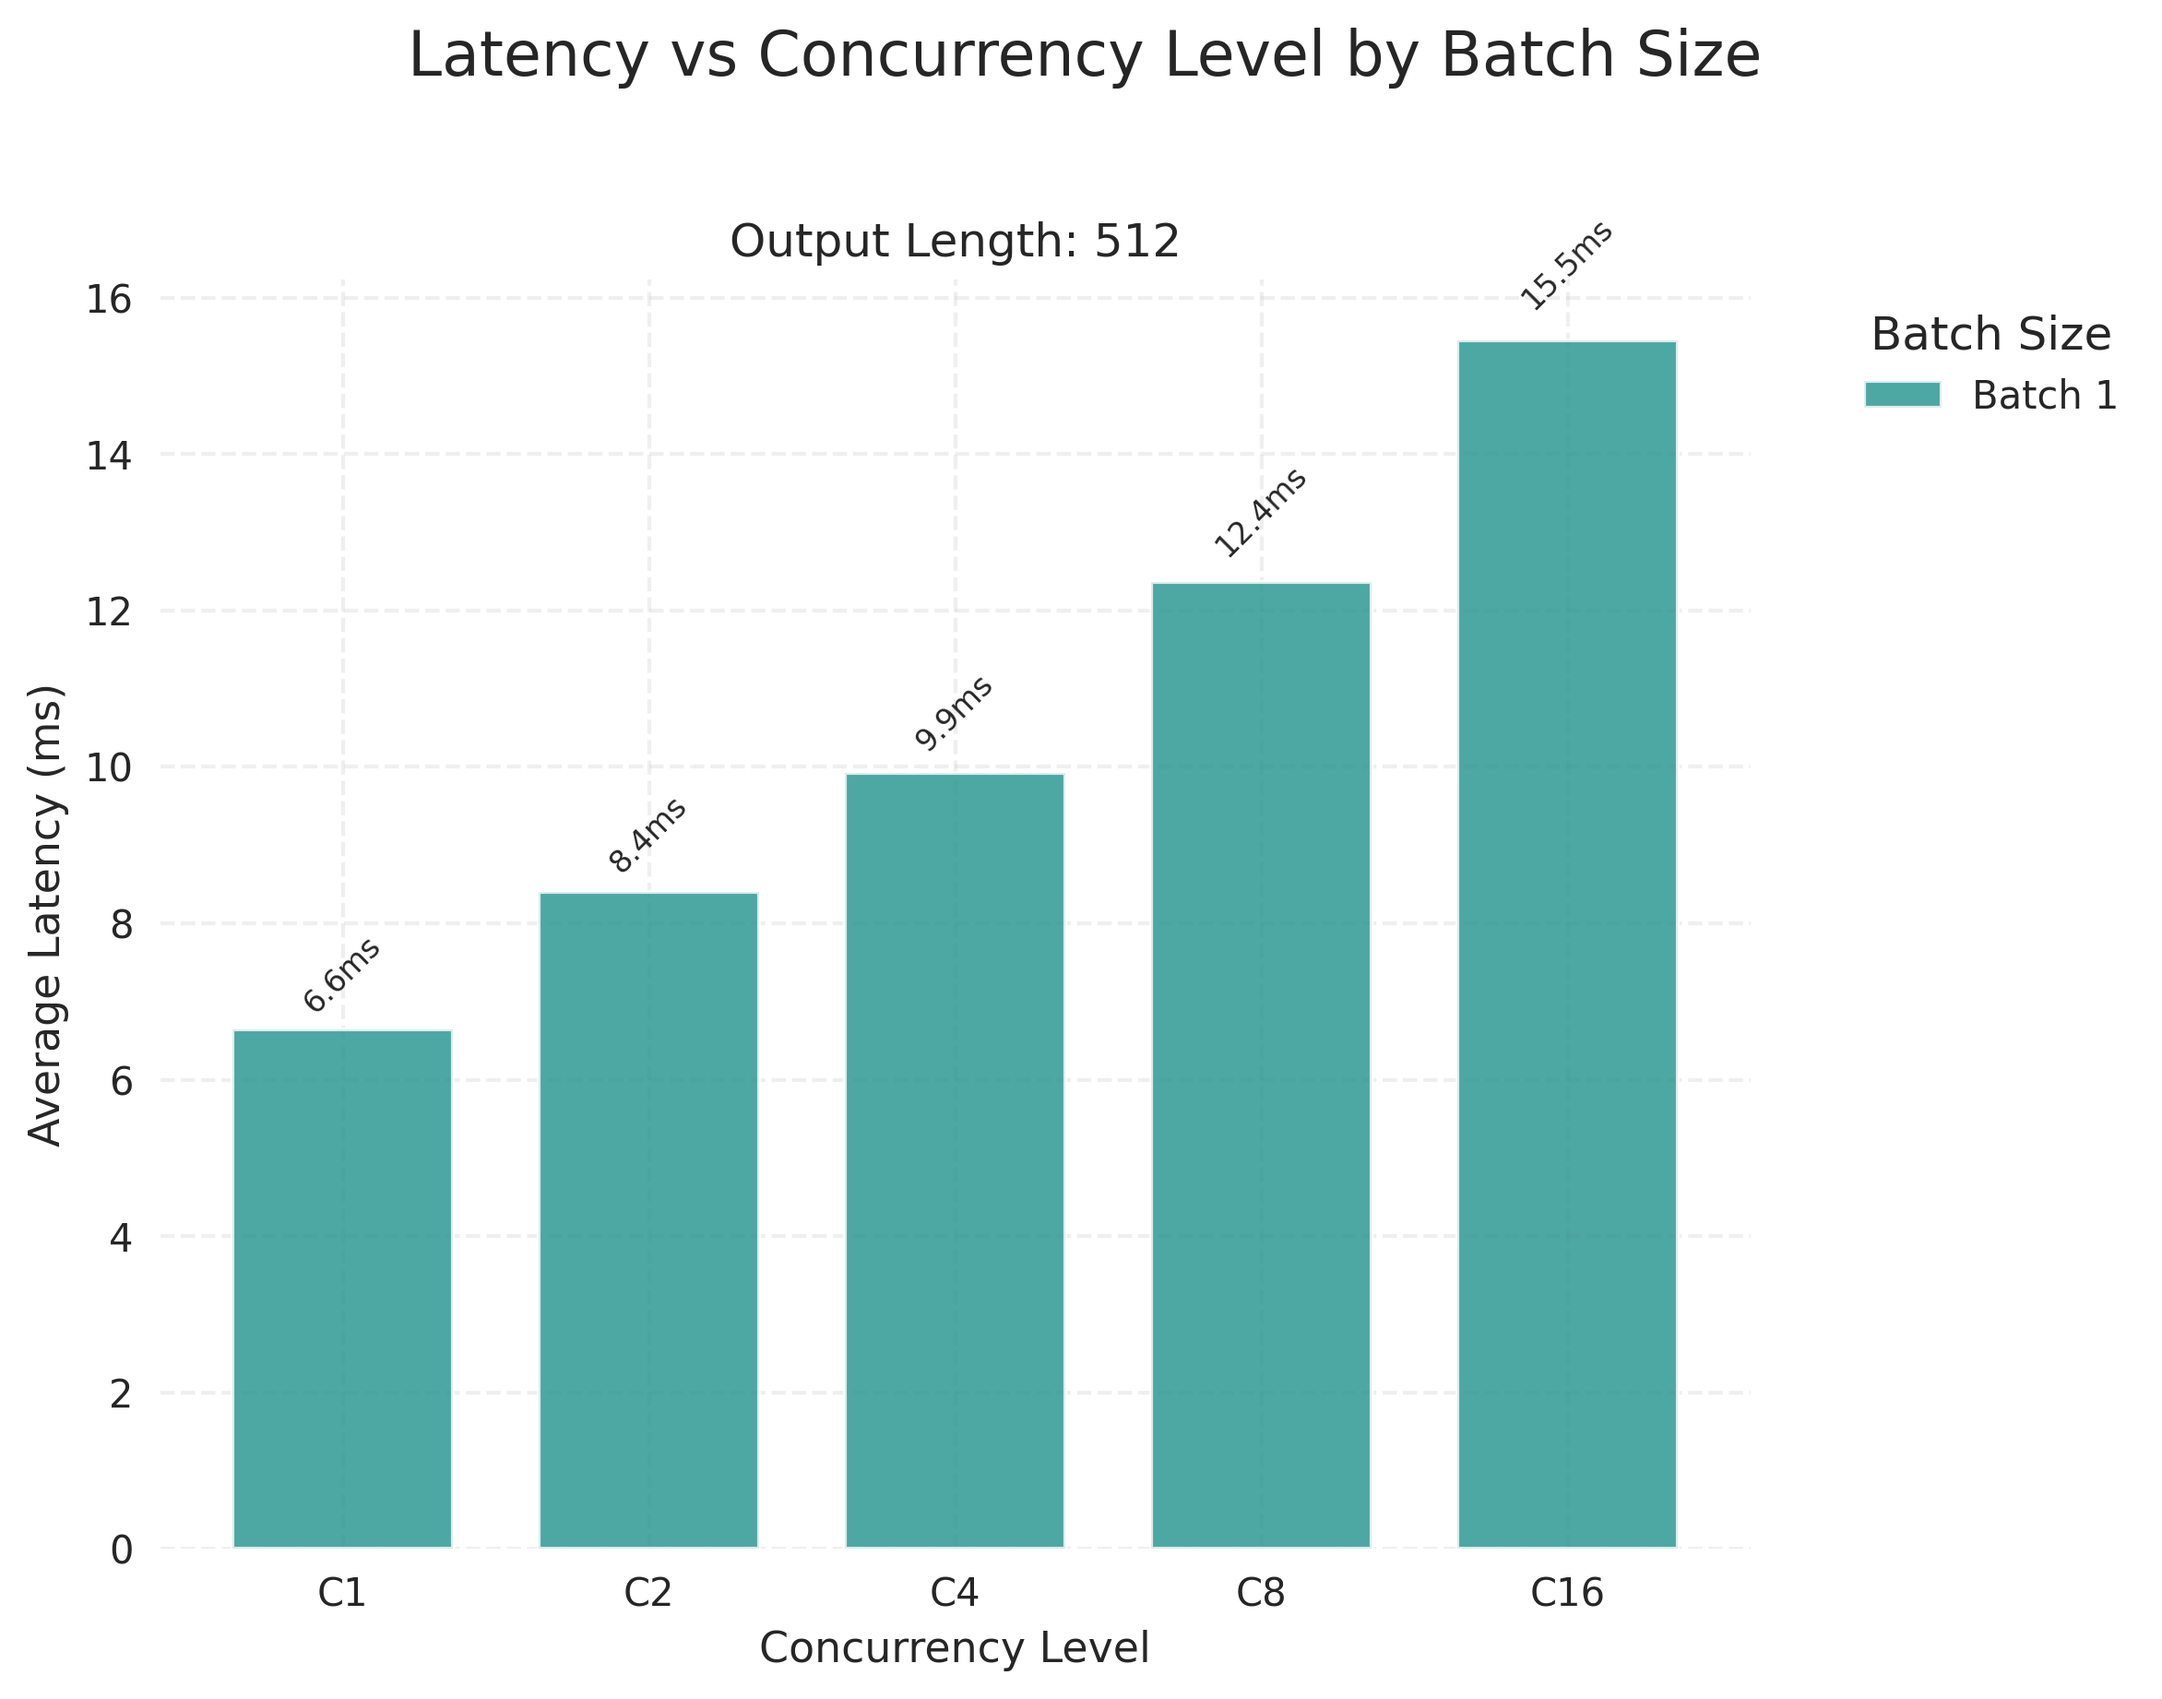
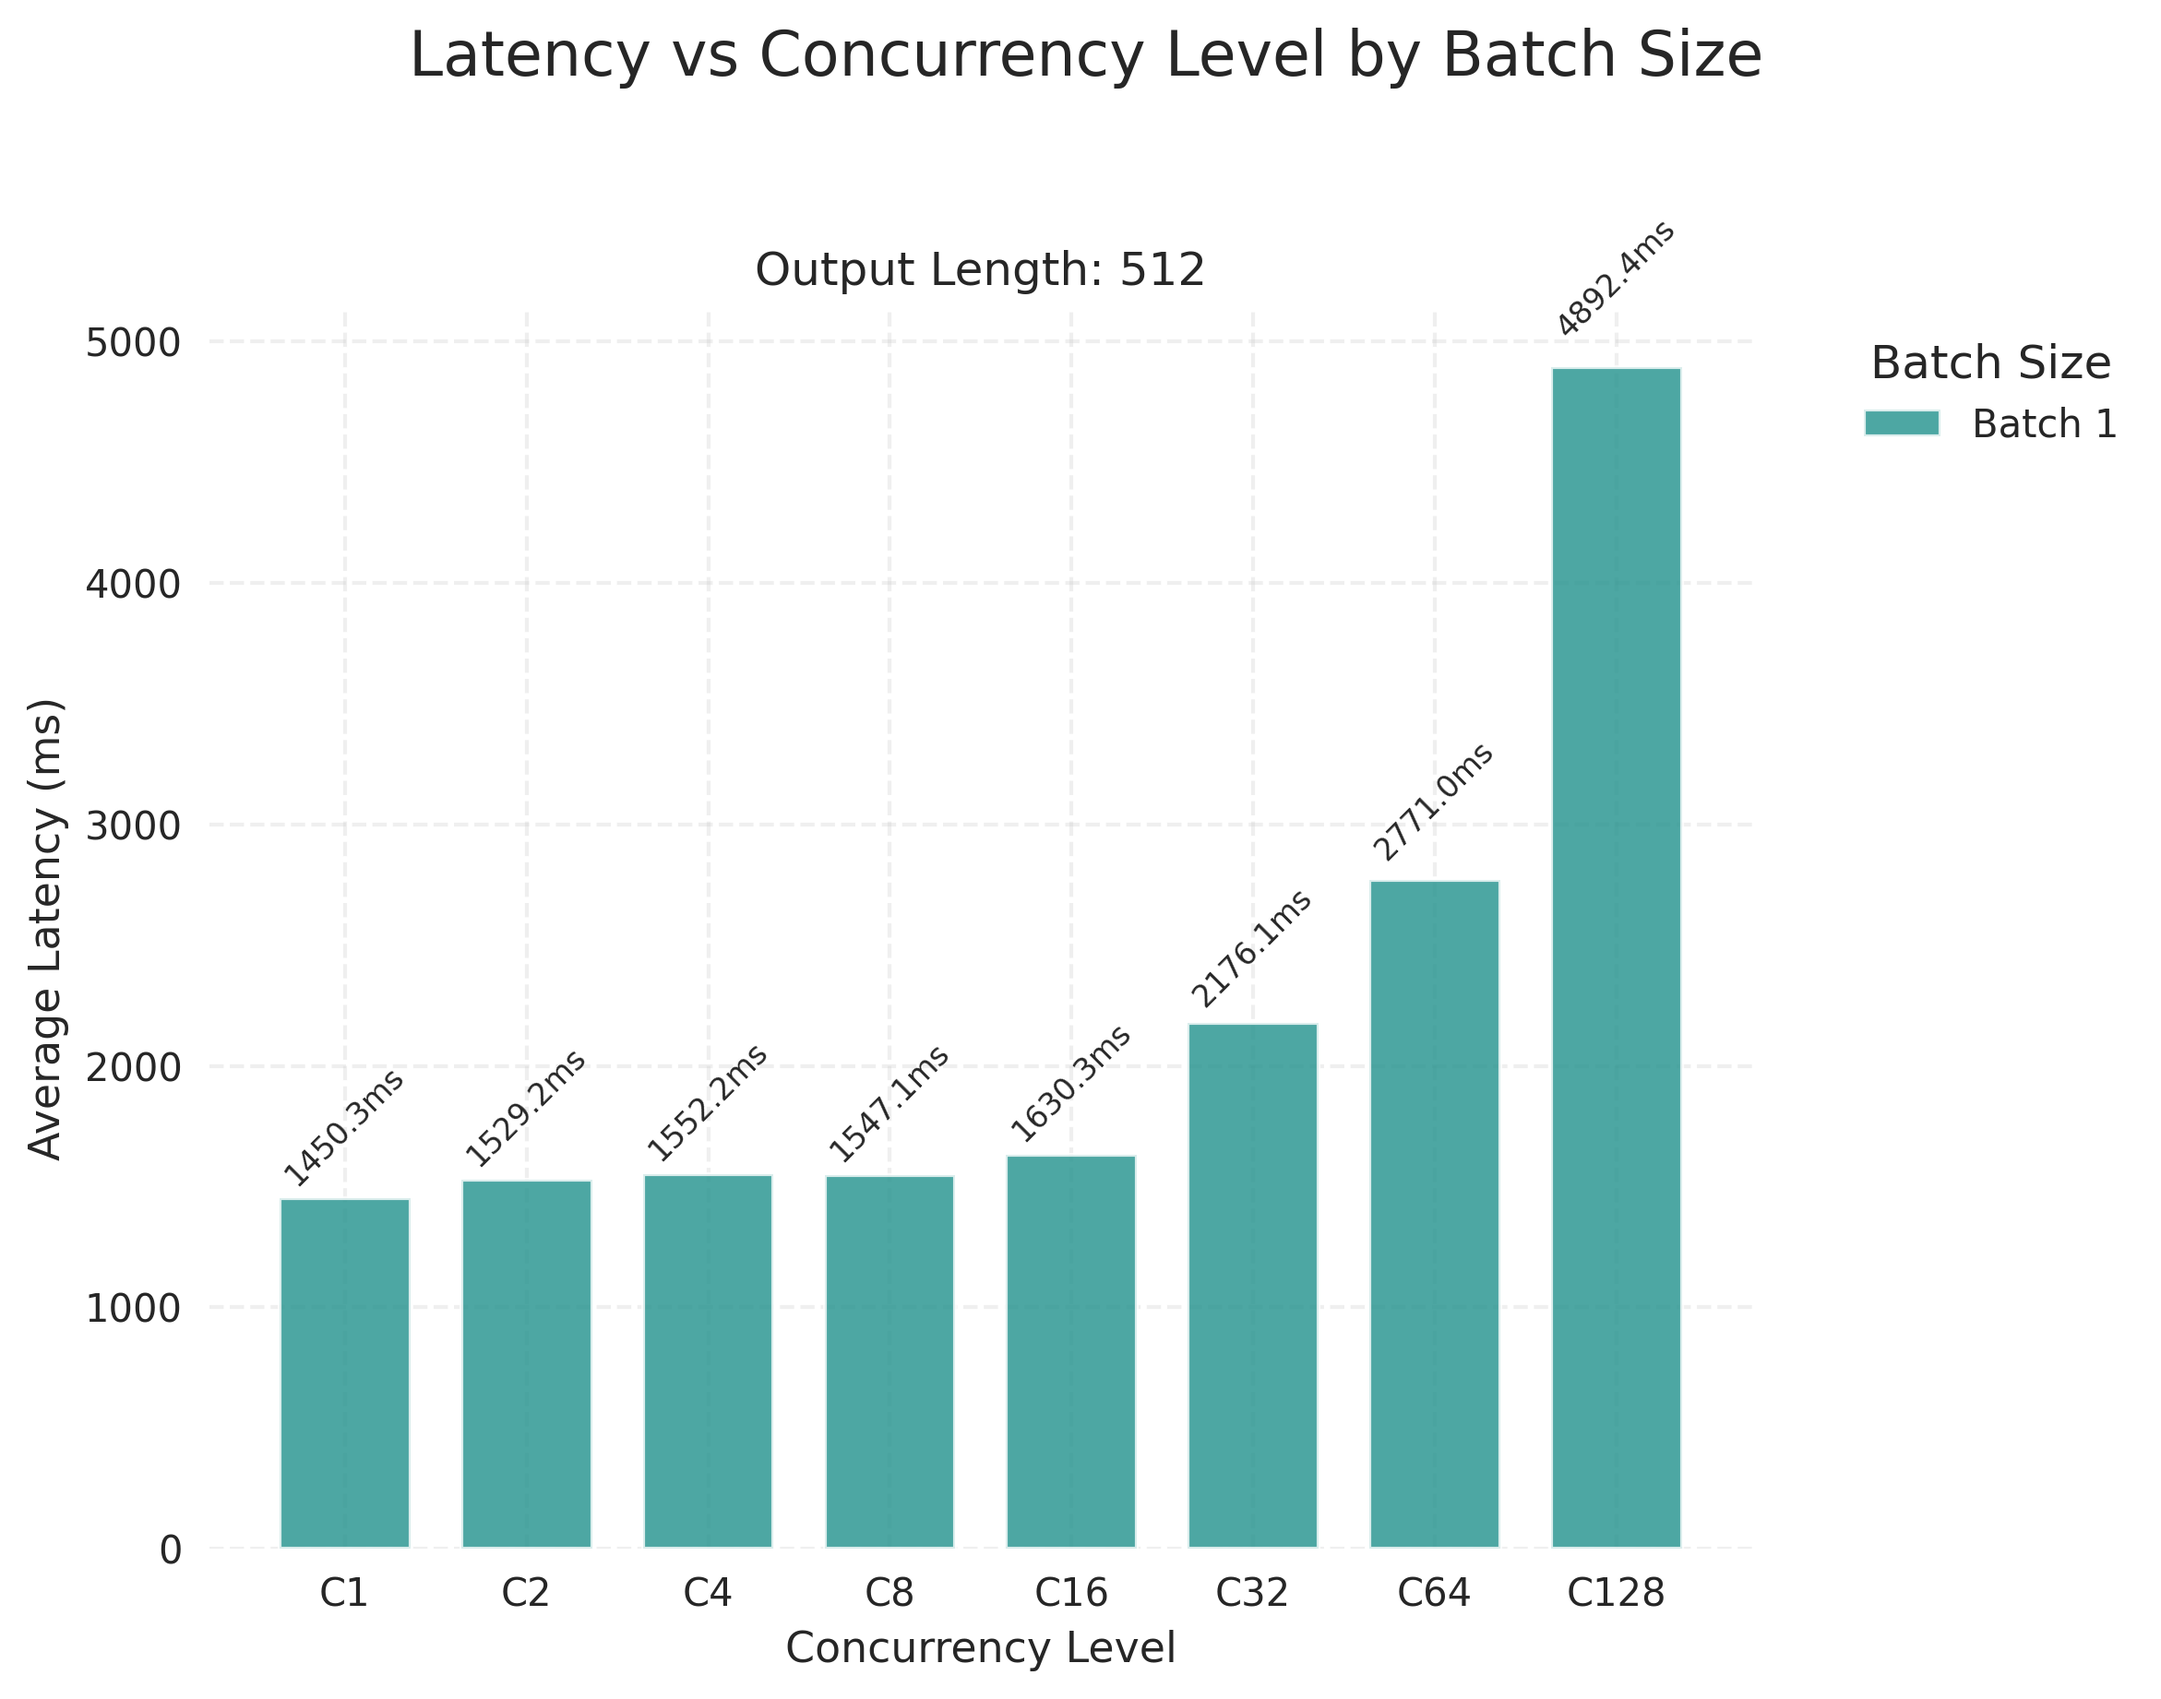
Online Server working with dynamic batching

diff --git a/tinyllama/server/vllm_dynamic.py b/tinyllama/server/vllm_dynamic.py
@@ -6,7 +6,8 @@ from vllm import LLM, SamplingParams, AsyncLLMEngine
 import uvicorn
 import os
 from vllm.engine.arg_utils import AsyncEngineArgs
-
+from vllm.usage.usage_lib import UsageContext
+import asyncio
 
 app = FastAPI()
 
@@ -33,7 +34,7 @@ class vLLMServerDynamicBatching:
             "max_num_seqs": 128,
         }
         engine_args = AsyncEngineArgs(**llm_params)
-        self.llm = AsyncLLMEngine.from_engine_args(engine_args)
+        self.llm = AsyncLLMEngine.from_engine_args(engine_args, usage_context=UsageContext.API_SERVER)
         print("vLLM model loaded")
 
 vllm_server = vLLMServerDynamicBatching()
@@ -52,21 +53,29 @@ async def generate(request: GenerationRequest):
     )
 
     try:
-        assert len(request.prompts) == 1, "Only one prompt is supported"
-
         outputs_generator = vllm_server.llm.generate(
             request.prompts[0],
             sampling_params,
             request_id=request.request_id
         )
         
-        output = await outputs_generator.__anext__()
-        
+        final_output = None
+        try:
+            async for request_output in outputs_generator:
+                final_output = request_output
+        except asyncio.CancelledError:
+            return Response(status_code=499)
+
+        assert final_output is not None
+        results = []
+        for output in final_output.outputs:
+            results.append({
+                "text": output.text,
+                "tokens": len(output.token_ids)
+            })
+
         return {
-            "results": [{
-                "text": output.outputs[0].text,
-                "tokens": len(output.outputs[0].token_ids)
-            }]
+            "results": results
         }
     except Exception as e:
         raise HTTPException(status_code=500, detail=str(e))

diff --git a/tinyllama/offline_serving/profile_vllm.py b/tinyllama/offline_serving/profile_vllm.py
@@ -15,7 +15,7 @@ import matplotlib.pyplot as plt
 from datetime import datetime
 from vllm import LLM, SamplingParams
 from tinyllama.utils.llm_prompt import PROMPT
-from tinyllama.utils.profile import ModelProfiler
+from tinyllama.offline_serving.profile import ModelProfiler
 import torch
 
 
@@ -123,13 +123,13 @@ class vLLMProfiler(ModelProfiler):
         for _ in range(num_runs):
             start_time = time.time()
             outputs = self.llm.generate(prompts, sampling_params)
-            duration = time.time() - start_time
+            latency = time.time() - start_time
             
             # Calculate metrics
             num_output_tokens = sum(len(output.outputs[0].token_ids) for output in outputs)
-            avg_tokens_per_second = num_output_tokens / duration
+            avg_tokens_per_second = num_output_tokens / latency
             
-            latencies.append(duration)
+            latencies.append(latency)
             tokens_per_second.append(avg_tokens_per_second)
         
         stats = {
@@ -159,13 +159,13 @@ def main():
             
     # Save results
     timestamp = datetime.now().strftime("%Y%m%d_%H%M%S")
-    output_dir = "profiling_results/vllm"
+    output_dir = os.path.join(os.path.dirname(__file__), "profiling_results", "vllm")
     os.makedirs(output_dir, exist_ok=True)
     
     csv_path = f"{output_dir}/results_{timestamp}.csv"
     results.to_csv(csv_path, index=False)
     print(f"\nProfiling results saved to: {csv_path}")
-    
+
     
     print("\nProfiling Summary:")
     print(results[['batch_size', 'max_new_tokens', 

diff --git a/tinyllama/server/profile_vllm_server.py b/tinyllama/server/profile_vllm_server.py
@@ -16,19 +16,17 @@ CONFIG = {
     "host": "localhost",
     "port": 8000,
     "output_file": "vllm_concurrent_profile.csv",
-    "batch_sizes": [1],
+    "batch_sizes": [1, 2, 4, 8],
     "max_tokens_list": [512],
-    "concurrency_levels": [1, 2, 4, 8, 16],
-    "requests_per_level": 20,
+    "concurrency_levels": [1, 2, 4, 8],
+    "requests_per_level": 512,
     "input_length": 128
 }
 
 class vLLMClient:
     def __init__(self, base_url: str = "http://localhost:8000"):
         self.base_url = base_url.rstrip("/")
-        self.session = aiohttp.ClientSession(
-            connector=aiohttp.TCPConnector(limit=128)
-        )
+        self.session = aiohttp.ClientSession()
         
     async def __aenter__(self):
         return self
@@ -91,6 +89,9 @@ async def make_request(
         request_id=request_id
     )
     # print(f"Received request: {request_id}")
+    # print("Prompt: ", prompt)
+    # print("Response: ", response["results"][0]["text"])
+    # print(response["results"][0]["tokens"])
     total_tokens = sum(r["tokens"] for r in response["results"])
     return latency, total_tokens
 
@@ -133,7 +134,7 @@ async def profile_concurrent_requests(
         "std_latency_ms": np.std(latencies),
         "p90_latency_ms": np.percentile(latencies, 90),
         "p99_latency_ms": np.percentile(latencies, 99),
-        "throughput_tps": num_requests * np.sum(num_tokens) / total_time,
+        "throughput_tps": np.sum(num_tokens) / total_time,
     }
 
 async def run_profiling(

diff --git a/tinyllama/offline_serving/profile_baseline.py b/tinyllama/offline_serving/profile_baseline.py
@@ -18,7 +18,7 @@ import pandas as pd
 import gc
 from datetime import datetime
 from tinyllama.utils.llm_prompt import PROMPT
-from tinyllama.utils.profile import ModelProfiler
+from tinyllama.offline_serving.profile import ModelProfiler
 
 # Configuration
 MODEL_NAME = "TinyLlama/TinyLlama-1.1B-Chat-v1.0"
@@ -153,15 +153,13 @@ def main():
     
     # Save results
     timestamp = datetime.now().strftime("%Y%m%d_%H%M%S")
-    output_dir = "profiling_results/baseline"
+    output_dir = os.path.join(os.path.dirname(__file__), "profiling_results", "baseline")
     os.makedirs(output_dir, exist_ok=True)
     
     csv_path = f"{output_dir}/results_{timestamp}.csv"
     results.to_csv(csv_path, index=False)
     print(f"\nProfiling results saved to: {csv_path}")
     
-    profiler.plot_results(results, output_dir)
-    print("Generated plots in the profiling_results/baseline directory.")
     
     print("\nProfiling Summary:")
     print(results[['batch_size', 'max_new_tokens', 

diff --git a/tinyllama/utils/plot_concurrency.py b/tinyllama/utils/plot_concurrency.py
@@ -266,11 +266,10 @@ if __name__ == "__main__":
     import argparse
     
     parser = argparse.ArgumentParser(description='Generate concurrency analysis plots from vLLM profile data')
-    parser.add_argument('--input', type=str, default='vllm_concurrent_profile.csv',
+    parser.add_argument('--csv_path', type=str, default='vllm_concurrent_profile.csv',
                        help='Path to the input CSV file')
-    parser.add_argument('--output', type=str, default=None,
-                       help='Output directory for plots (default: <input_dir>/concurrency_plots)')
-    
     args = parser.parse_args()
+
+    output_dir = os.path.join(os.path.dirname(__file__), 'concurrency_plots')
     
-    main(args.input, args.output)
+    main(args.csv_path, output_dir)

diff --git a/README.md b/README.md
@@ -18,8 +18,8 @@ This project focuses on optimizing the inference performance of the TinyLlama mo
 
 2. **Create and activate a virtual environment** (optional but recommended)
    ```bash
-   python -m venv venv
-   source venv/bin/activate 
+   uv venv tinyllama_env
+   source tinyllama_env/bin/activate 
    ```
 
 3. **Install the package in development mode**
@@ -53,26 +53,19 @@ tinyllama-optimize/
 To start the vLLM server with default settings:
 
 ```bash
-python -m tinyllama.server.vllm_server
-```
-
-Available options:
-```bash
-python -m tinyllama.server.vllm_server \
-    --model TinyLlama/TinyLlama-1.1B-Chat-v1.0 \
-    --port 8000 \
-    --tensor-parallel-size 1 \
-    --max-num-batched-tokens 4096
+cd tinyllama
+python server/vllm_dynamic.py
 ```
 
 ### 2. Profiling the Model
 
-#### Basic Profiling
+#### Basic Profiling Offline
 
 Run the basic profiler to measure performance metrics:
 
 ```bash
-python -m tinyllama.profilers.profile_vllm
+cd tinyllama
+python offline_serving/profile_vllm.py
 ```
 
 #### Concurrency Profiling
@@ -81,25 +74,26 @@ To profile the server under different concurrency levels:
 
 1. Start the vLLM server in a separate terminal
 2. Run the concurrency profiler:
-   ```bash
-   python -m tinyllama.server.profile_vllm_server
-   ```
-
-This will generate plots in the `concurrency_plots` directory.
+```bash
+cd tinyllama
+python server/profile_vllm_server.py
+```
+This will generate a CSV file with profiling results in the `tinyllama` directory.
 
 ### 3. Generating Plots
 
 To generate plots from existing profiling data:
 
 ```bash
-python -m tinyllama.utils.plot_concurrency --input path/to/profile_data.csv
+python utils/plot_concurrency.py --csv_path vllm_concurrent_profile.csv
 ```
+This will generate plots in the `concurrency_plots` directory.
 
 ## Configuration
 
 ### Server Configuration
 
-Modify server parameters in `tinyllama/server/vllm_server.py`:
+Modify server parameters in `tinyllama/server/vllm_dynamic.py`:
 - Model name/path
 - Tensor parallelism
 - Maximum sequence length
@@ -107,7 +101,7 @@ Modify server parameters in `tinyllama/server/vllm_server.py`:
 
 ### Profiling Configuration
 
-Adjust profiling parameters in `tinyllama/utils/profile.py`:
+Adjust profiling parameters in `tinyllama/offline_serving/profile.py` or `tinyllama/server/profile_vllm_server.py`:
 - Batch sizes
 - Input/output sequence lengths
 - Number of warmup and measurement runs
@@ -124,13 +118,6 @@ This project implements several optimization techniques:
    - Dynamic batching
    - Continuous batching
 
-3. **KV Cache Optimization**
-   - PagedAttention
-   - Memory-efficient caching
-
-4. **Attention Optimization**
-   - Flash Attention
-   - Grouped-query attention
 
 ## Performance Metrics
 
